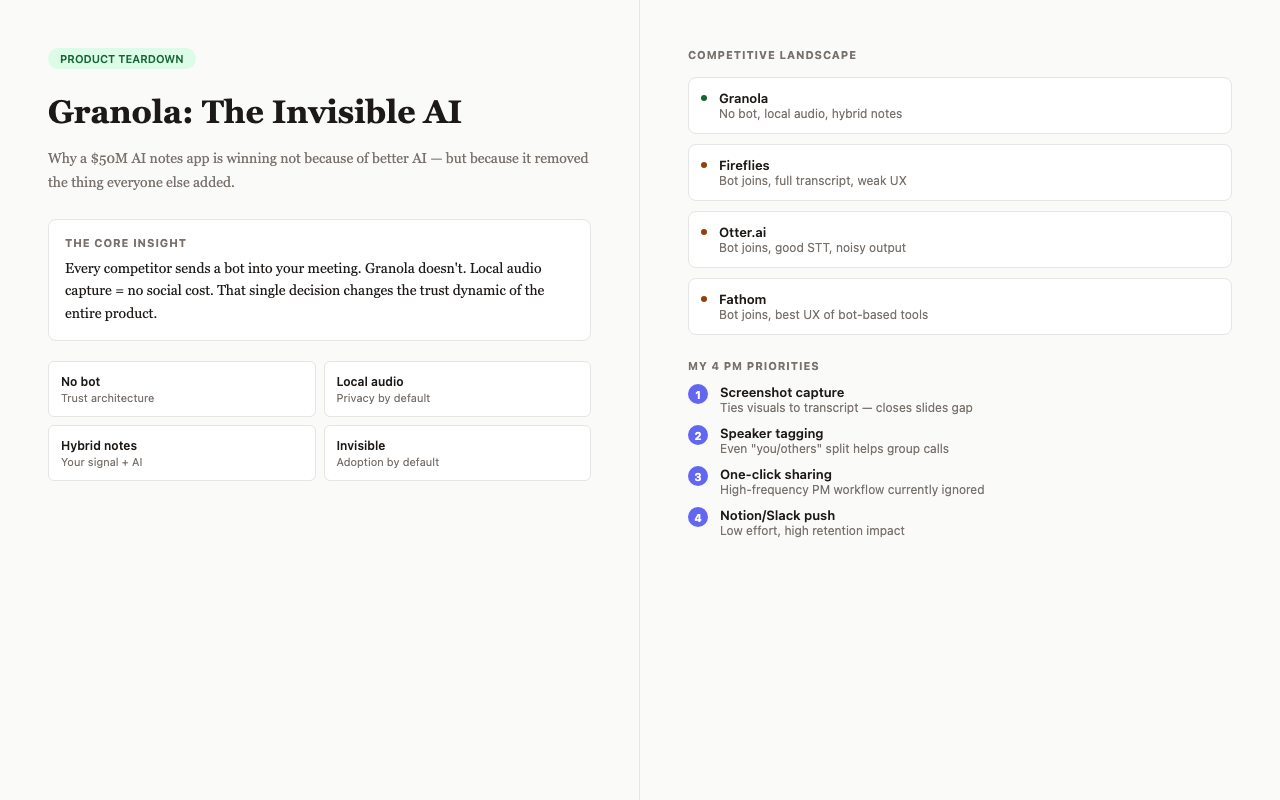
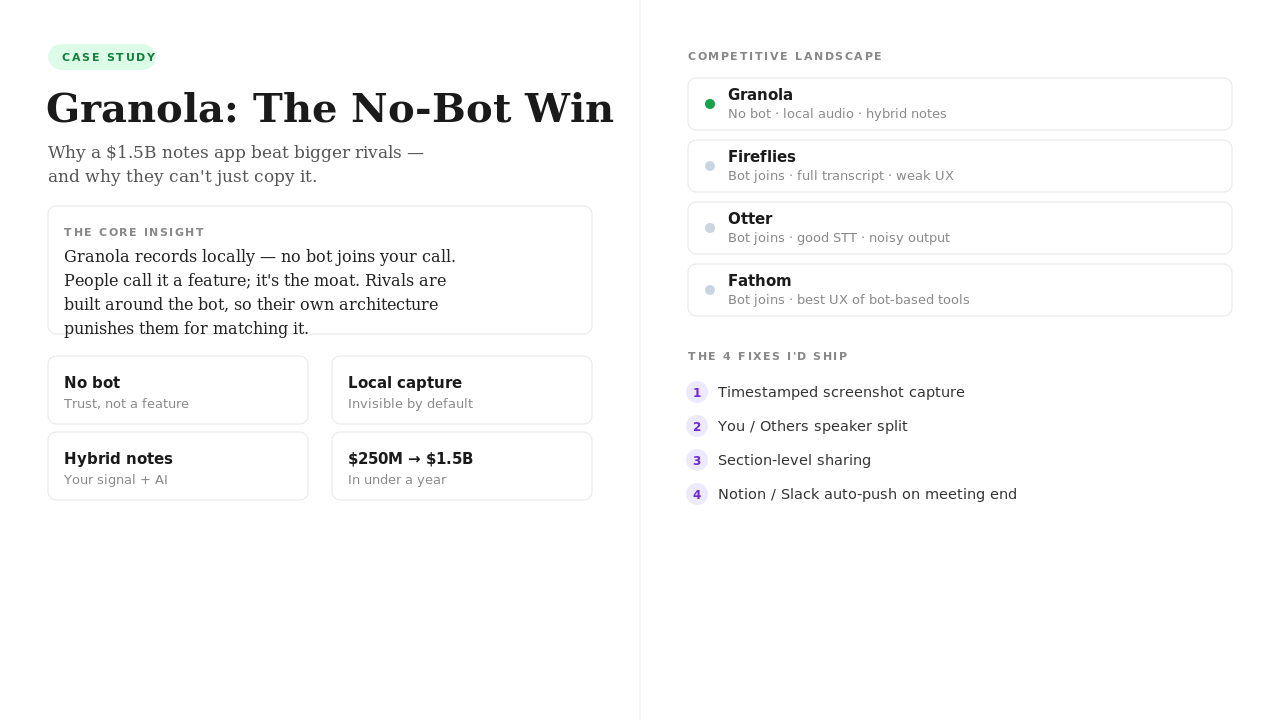
Relabel teardowns as Case Studies; deepen + first-person rewrite; refresh covers

diff --git a/src/data/projects.ts b/src/data/projects.ts
@@ -277,11 +277,11 @@ export const projects: Project[] = [
 export const caseStudies: Project[] = [
   {
     id: "granola-product-teardown",
-    title: "Granola Teardown — Why the No-Bot App Won",
+    title: "Granola — Why the No-Bot App Won",
     description:
-      "A teardown of Granola — the AI notes app that beat bigger rivals to a $1.5B valuation. Why one trust-architecture decision won, and 4 PM-prioritized fixes for its gaps.",
-    category: "Product Thinking · Analysis",
-    tags: ["Product Teardown", "AI Tools", "Competitive Analysis", "Strategy"],
+      "A case study on Granola — the AI notes app that beat bigger rivals to a $1.5B valuation. Why one trust-architecture decision won, why incumbents can't copy it, and 4 fixes I'd ship.",
+    category: "Case Study · AI Tools",
+    tags: ["Case Study", "AI Tools", "Competitive Analysis", "Strategy"],
     image: "/screenshots/granola-teardown.png",
     overview:
       "Granola competes with Fireflies, Otter, and Fathom — rivals with more features and bigger teams. It's winning anyway: 250% revenue growth in a quarter, ~10% weekly user growth, and a jump from a $250M valuation (May 2025) to $1.5B (Mar 2026). I tore it down to find why — the architecture call, the UX philosophy, the moat, and where it still falls short.",
@@ -296,28 +296,32 @@ export const caseStudies: Project[] = [
     tools: ["Product Analysis", "Competitive Research", "User Behavior Synthesis"],
     sections: [
       {
-        heading: "The winning insight: no bot",
-        body: "Every rival sends a visible bot into your meeting. Granola records locally — invisible to everyone on the call. That's not a technical preference; it's a trust decision. A bot changes the room: people talk differently when a third party is obviously recording. Granola bet that removing that friction was worth the engineering cost, and the market agreed.",
+        heading: "The decision that won: no bot",
+        body: "Every rival sends a visible bot into your meeting. Granola doesn't — it records locally, invisible to everyone on the call. People dismiss this as a feature; I think it's the whole company. A bot changes the room: the second people clock that a third-party recorder has joined, they hedge, they perform, they say less. Granola bet that removing that one bit of friction was worth real engineering cost, and a $250M-to-$1.5B year — on 250% quarterly revenue growth and ~10% weekly user growth — says the bet was right.",
       },
       {
-        heading: "The moat: hybrid notes as personal signal",
-        body: "Most AI note tools take you out of the loop. Granola keeps you in it — you jot rough notes during the meeting, and those act as a priority signal. The output reflects what mattered to you, not just what was said, so notes feel authored rather than extracted. That's a different product philosophy, and it's hard to copy without rebuilding the experience around it.",
+        heading: "Why incumbents can't just copy it",
+        body: "Here's the part I find most interesting: no-bot isn't only nicer, it's structurally hard for the incumbents to match. Otter, Fireflies, and Fathom are built around the bot — it's how they join calls, pull audio, and attribute speakers across every platform. Tearing it out means rebuilding capture from scratch, giving up easy server-side processing, and shipping native apps for every OS. Their own architecture is the thing stopping them. That's the best kind of moat: not a feature competitors lack, but one their foundations actively punish them for adding.",
+      },
+      {
+        heading: "The quieter moat: hybrid notes",
+        body: "The second thing Granola gets right is keeping you in the loop. Most AI note tools take you out of it and hand back a transcript. Granola has you jot rough notes during the meeting, and those become a priority signal it writes around — so the output reflects what mattered to you, not just what was said. It reads like you wrote it, not like a machine summarized you. That's a softer edge than no-bot, but it's a big reason retention holds: the product feels personal, and personal is sticky.",
       },
       {
         heading: "Where it falls short",
-        body: "No screen capture, so decisions made on slides go missing. Speaker ID stops at basic diarization, making multi-person notes hard to parse. Integrations are thin — notes sit in Granola instead of flowing to Notion, Slack, or a CRM. And the lack of an Android or web build adds friction for mixed-device teams.",
+        body: "It's not flawless. No screen capture, so decisions made on slides vanish. Speaker ID stops at basic diarization, which makes multi-person notes hard to parse. Integrations are thin — notes sit in Granola instead of flowing into Notion, Slack, or a CRM. And the lack of a solid Android or web build adds friction for mixed-device teams.",
       },
       {
-        heading: "My 4 PM-prioritized fixes",
-        body: "1) Timestamped screenshot capture — ties slide content to the transcript without rebuilding the architecture. 2) You/Others speaker split — light tagging that sharply improves readability. 3) Section-level sharing — PMs share specific action items, not whole notes. 4) Notion/Slack auto-push on meeting end — low effort, high retention, because it closes the 'where did I put that?' loop. Ranked by engineering effort against retention impact.",
+        heading: "The bet I'd watch — and the 4 fixes I'd ship",
+        body: "At a $1.5B valuation the gravity is enterprise, and that's exactly where the thesis gets tested: IT teams want server-side capture, admin controls, and compliance logging — the bot-shaped features Granola won by refusing. So my job as PM would be to protect the no-bot identity while closing the gaps that don't compromise it: 1) timestamped screenshot capture, so slide decisions stop disappearing; 2) a simple you/others speaker split for readability; 3) section-level sharing, because people share action items, not whole notes; 4) Notion/Slack auto-push on meeting end — low effort, high retention, it closes the 'where did I put that?' loop. Ranked by engineering effort against retention impact.",
       },
     ],
     outcomes: [
       "Pinpointed the trust-architecture insight (no-bot, local capture) behind Granola's edge",
-      "Connected the thesis to results: $250M → $1.5B valuation, 250% quarterly revenue growth, ~10% weekly user growth",
-      "Mapped 4 prioritized fixes by engineering effort vs. retention impact",
-      "Benchmarked differentiation across Fireflies, Otter, and Fathom",
-      "Showed the PM arc: insight → gap → prioritized roadmap",
+      "Argued why it's defensible — the incumbents' bot-based architecture punishes them for copying it",
+      "Connected thesis to results: $250M → $1.5B valuation, 250% quarterly revenue growth, ~10% weekly user growth",
+      "Named the real risk: an enterprise pivot pressures the no-bot identity that won in the first place",
+      "Prioritized 4 fixes by engineering effort vs. retention impact",
     ],
   },
   {
@@ -325,7 +329,7 @@ export const caseStudies: Project[] = [
     title: "Snacc vs Zepto Café — Why Infrastructure Beats Product",
     description:
       "Swiggy built Snacc in under 16 days. Zepto Café had been refining its kitchens since 2022. Same craving, same customer — one shut down ~13 months after launch. A teardown of why the better product lost.",
-    category: "Product Teardown · Quick Commerce",
+    category: "Case Study · Quick Commerce",
     tags: ["Quick Commerce", "Unit Economics", "Competitive Analysis", "GTM"],
     image: "/screenshots/snacc-teardown.png",
     overview:
@@ -341,32 +345,32 @@ export const caseStudies: Project[] = [
     tools: ["Competitive Analysis", "Unit Economics", "Product Strategy"],
     sections: [
       {
-        heading: "The market",
-        body: "Quick commerce cracked sub-10-minute groceries. The next frontier was food — not a restaurant meal, but the gap in between: the 3pm chai, the poha before a standup, the snack too small for a full Swiggy order but too much effort to make. Zepto started piloting this craving in 2022; Swiggy's Snacc entered in January 2025. Same customer, same occasion — opposite foundations.",
+        heading: "Why Snacc existed",
+        body: "Quick commerce cracked sub-10-minute groceries; food was the obvious next frontier — not restaurant meals, but the in-between cravings: the 3pm chai, the poha before a standup, the snack too small to bother ordering and too much effort to make. Zepto started piloting this in 2022. Swiggy's Snacc jumped in January 2025. Same craving, same customer — and that's exactly why I find the comparison so clean. The product was barely the variable. What each one was built on was.",
       },
       {
-        heading: "Two different bets",
-        body: "Zepto Café piloted inside the main grocery app in 2022 and shipped as a standalone app in December 2024 — but always on top of existing dark stores: same rooms, same riders, same last mile, with a kitchen bolted into space already paid for. Snacc launched in under 16 days, into a market where Zepto Café and Blinkit Bistro already existed, on standalone micro-kitchens, a separate app, and a separate rider fleet. One was a multi-year conviction. The other was a 16-day reaction.",
+        heading: "Two bets, one balance sheet",
+        body: "Zepto Café piloted inside the grocery app in 2022, then spun out as its own app in December 2024 — but always on top of dark stores it already ran: same rooms, same riders, a kitchen dropped into space already paid for. Snacc shipped in under 16 days, on standalone micro-kitchens, its own app, and its own rider fleet, into a market where Zepto Café and Blinkit Bistro already existed. Here's the part I keep coming back to: a 16-day standalone app is what you build when you can't — or won't — wait for the Instamart and Bolt teams to make room on their roadmaps. The speed was genuinely impressive. It was also the tell.",
       },
       {
-        heading: "Where it broke: unit economics",
-        body: "A ₹100 poha order looks like revenue. Subtract dedicated kitchen rent, a separate rider fleet, standalone-app acquisition, and packaging, and there's nothing left. Zepto Café never carried that weight — grocery operations already absorbed the fixed costs, so each café order improved dark-store utilization at near-zero marginal cost. By early 2025 the unit was running ~100K orders/day at a ~$100M annualized GMV run-rate with ~50% gross margins. Snacc paid full freight on every order from day one. That's a structural gap, not something you iterate your way out of.",
+        heading: "The math that actually killed it",
+        body: "Forget GMV and look at contribution per order. A ₹100 snack earns a thin food margin, and Snacc then paid for everything underneath that order out of the same ₹100: a kitchen amortized over low early volume, a rider fleet with nothing else to carry between drops, install-driven CAC, packaging. At low density the rider cost alone can eat the margin. Zepto Café never saw that bill — its riders and dark stores were already funded by groceries, so each café order was close to pure incremental utilization (by early 2025 the unit ran ~50% gross margins at ~100K orders/day and a ~$100M annualized run-rate). Snacc carried full cost from order one. You don't iterate your way out of negative contribution margin — you have to change what the order sits on.",
       },
       {
-        heading: "The irony: Snacc was the better product",
-        body: "Snacc felt purpose-built — curated menu, sharp pricing, UX that wasn't a grocery app with a food tab stapled on. Zepto Café works, but it's clearly infrastructure-first. And yet Swiggy's own shutdown email conceded PMF 'was emerging': users came back, habits formed. It didn't matter. In quick commerce, a great product on a broken cost structure loses to a fine product on the right infrastructure — every time.",
+        heading: "The uncomfortable part: Snacc was better",
+        body: "I want to be fair to Snacc, because it wasn't the weak product — it was the stronger one. Curated menu, sharp pricing, a UX that wasn't a grocery app with a food tab stapled on. Swiggy's own shutdown note admitted PMF 'was emerging': people came back, habits formed. And it still died in ~13 months. That's the line I'd put on the wall — in quick commerce, product quality is table stakes and cost structure is the moat. A great product on the wrong infrastructure loses to a fine product on the right one, every single time.",
       },
       {
-        heading: "What I'd have done as PM",
-        body: "Don't ship Snacc as a standalone app. Launch it as a food category inside Swiggy Instamart — existing dark stores as the kitchen backbone, Instamart riders for last mile, Bolt for speed — keeping the Snacc brand and curated menu but inverting the cost structure. Swiggy already had the moat; Snacc was built beside it instead of on top of it. The 16-day build wasn't the mistake. Building in isolation from Swiggy's own infrastructure was.",
+        heading: "What I'd have done",
+        body: "I wouldn't have shipped Snacc as a standalone app at all. I'd have launched it as a food category inside Instamart — dark stores as the kitchen, Instamart riders carrying snacks alongside groceries, Bolt for speed — same brand, same curated menu, a completely different balance sheet. The 16-day build was never the mistake. Building it beside Swiggy's moat instead of on top of it was. And if the real blocker was that the infra teams wouldn't make room, that's a signal to fix the org — not to route around it with a separate app and a separate P&L.",
       },
     ],
     outcomes: [
-      "Diagnosed why the better product lost: infrastructure leverage beats UX in quick commerce",
-      "Quantified the unit-economics gap — Snacc's full marginal cost per order vs Zepto Café's ~50% gross margin riding shared dark stores",
-      "Traced the timeline that tells the story: ~16-day build and ~13-month life (Jan 2025–Feb 2026) vs Zepto's 2022 pilot scaling to ~100K orders/day",
-      "Proposed a concrete fix: Snacc as a category inside Instamart, not a standalone app",
-      "PM takeaway: pressure-test the cost structure before polishing the product",
+      "Diagnosed why the better product lost: in quick commerce, cost structure is the moat, not UX",
+      "Broke down the unit economics to contribution-per-order — Snacc's full marginal cost vs Zepto Café's ~50% gross margin riding shared dark stores",
+      "Read the 16-day standalone build as an org signal, not just a speed flex",
+      "Proposed a concrete fix: Snacc as a category inside Instamart, not a separate app and P&L",
+      "Pinned the timeline that tells the story: ~13-month life (Jan 2025–Feb 2026) vs Zepto's 2022 pilot scaling to ~100K orders/day",
     ],
   },
 ];